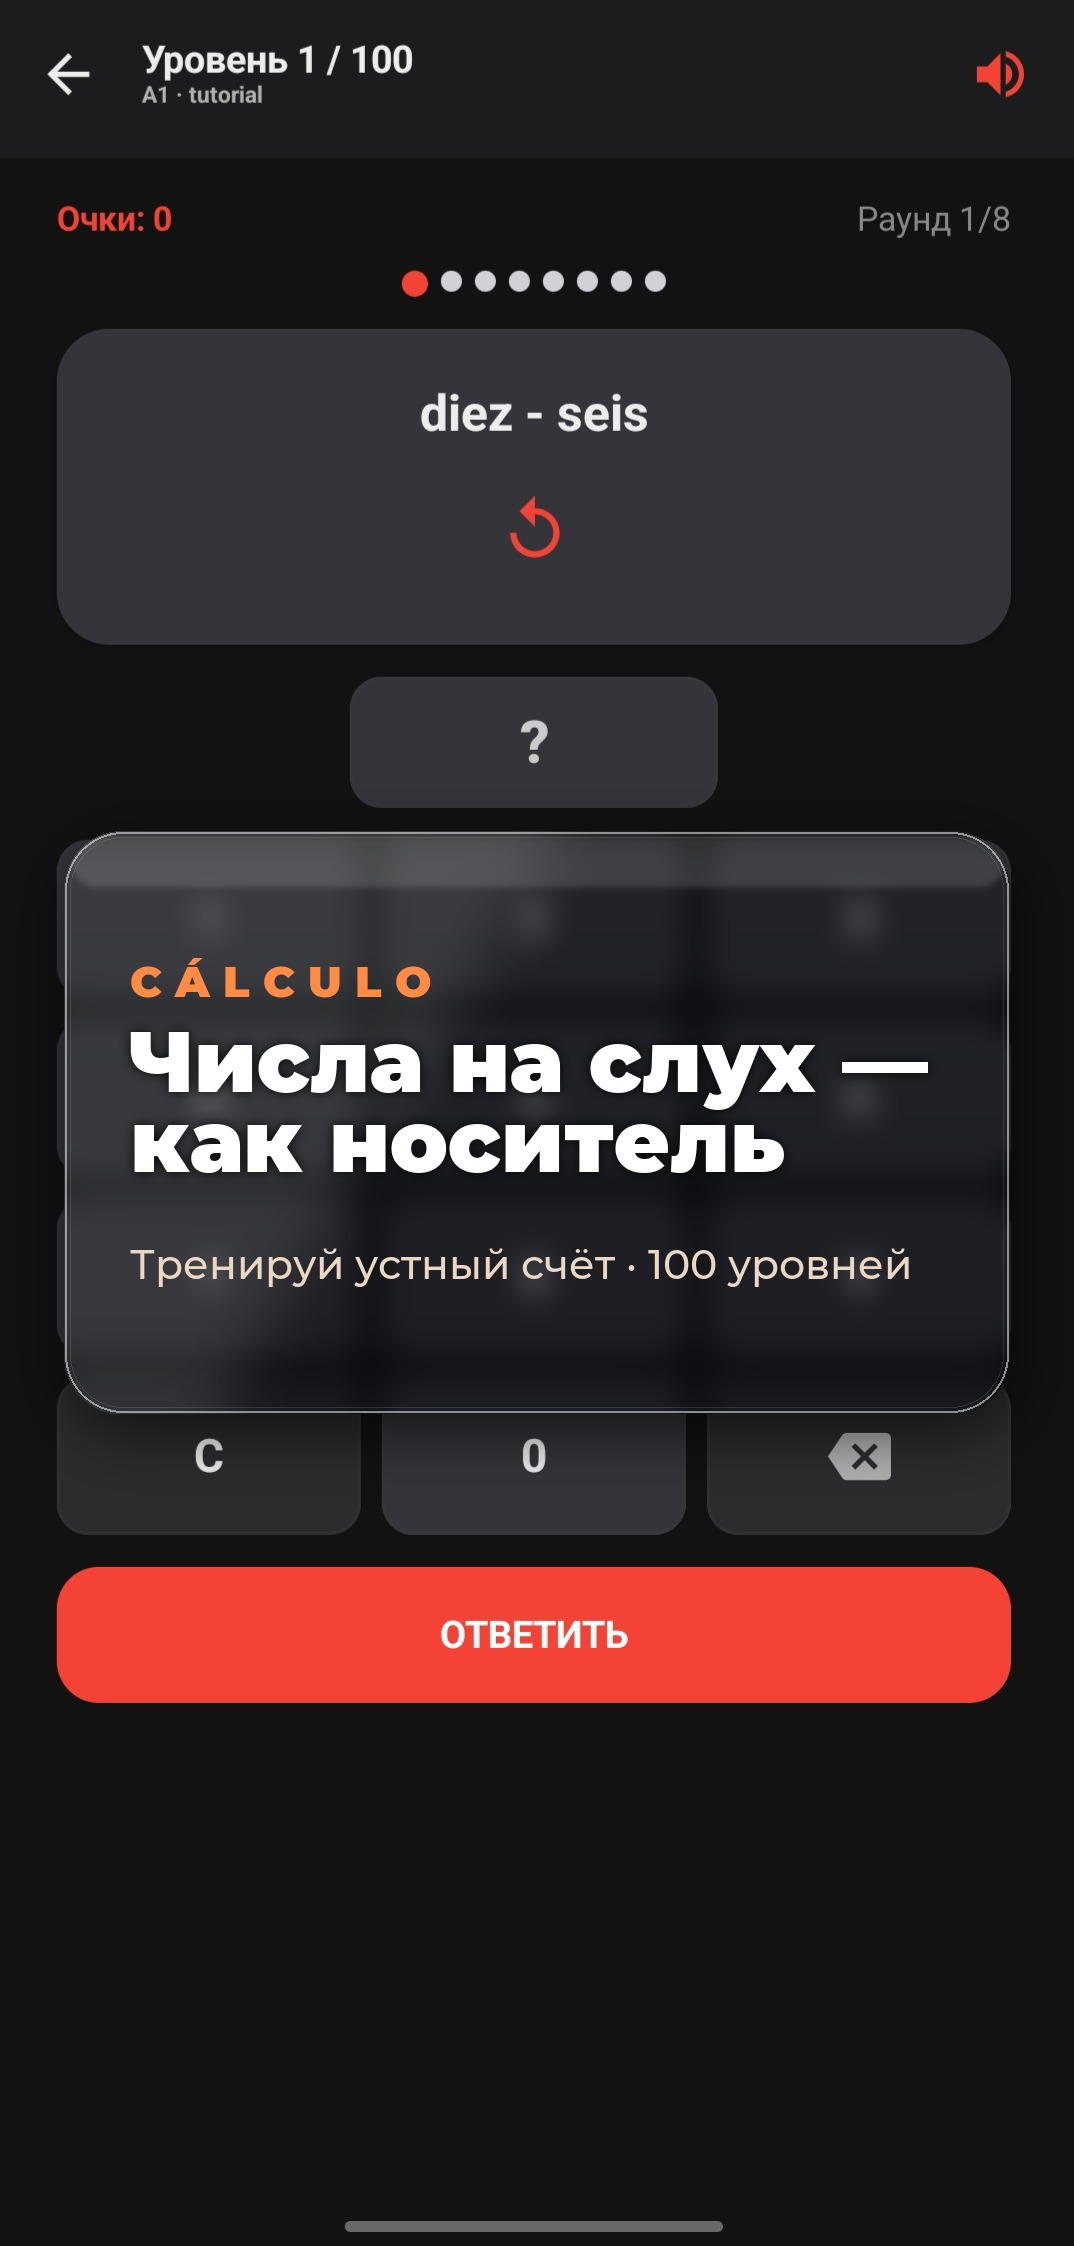
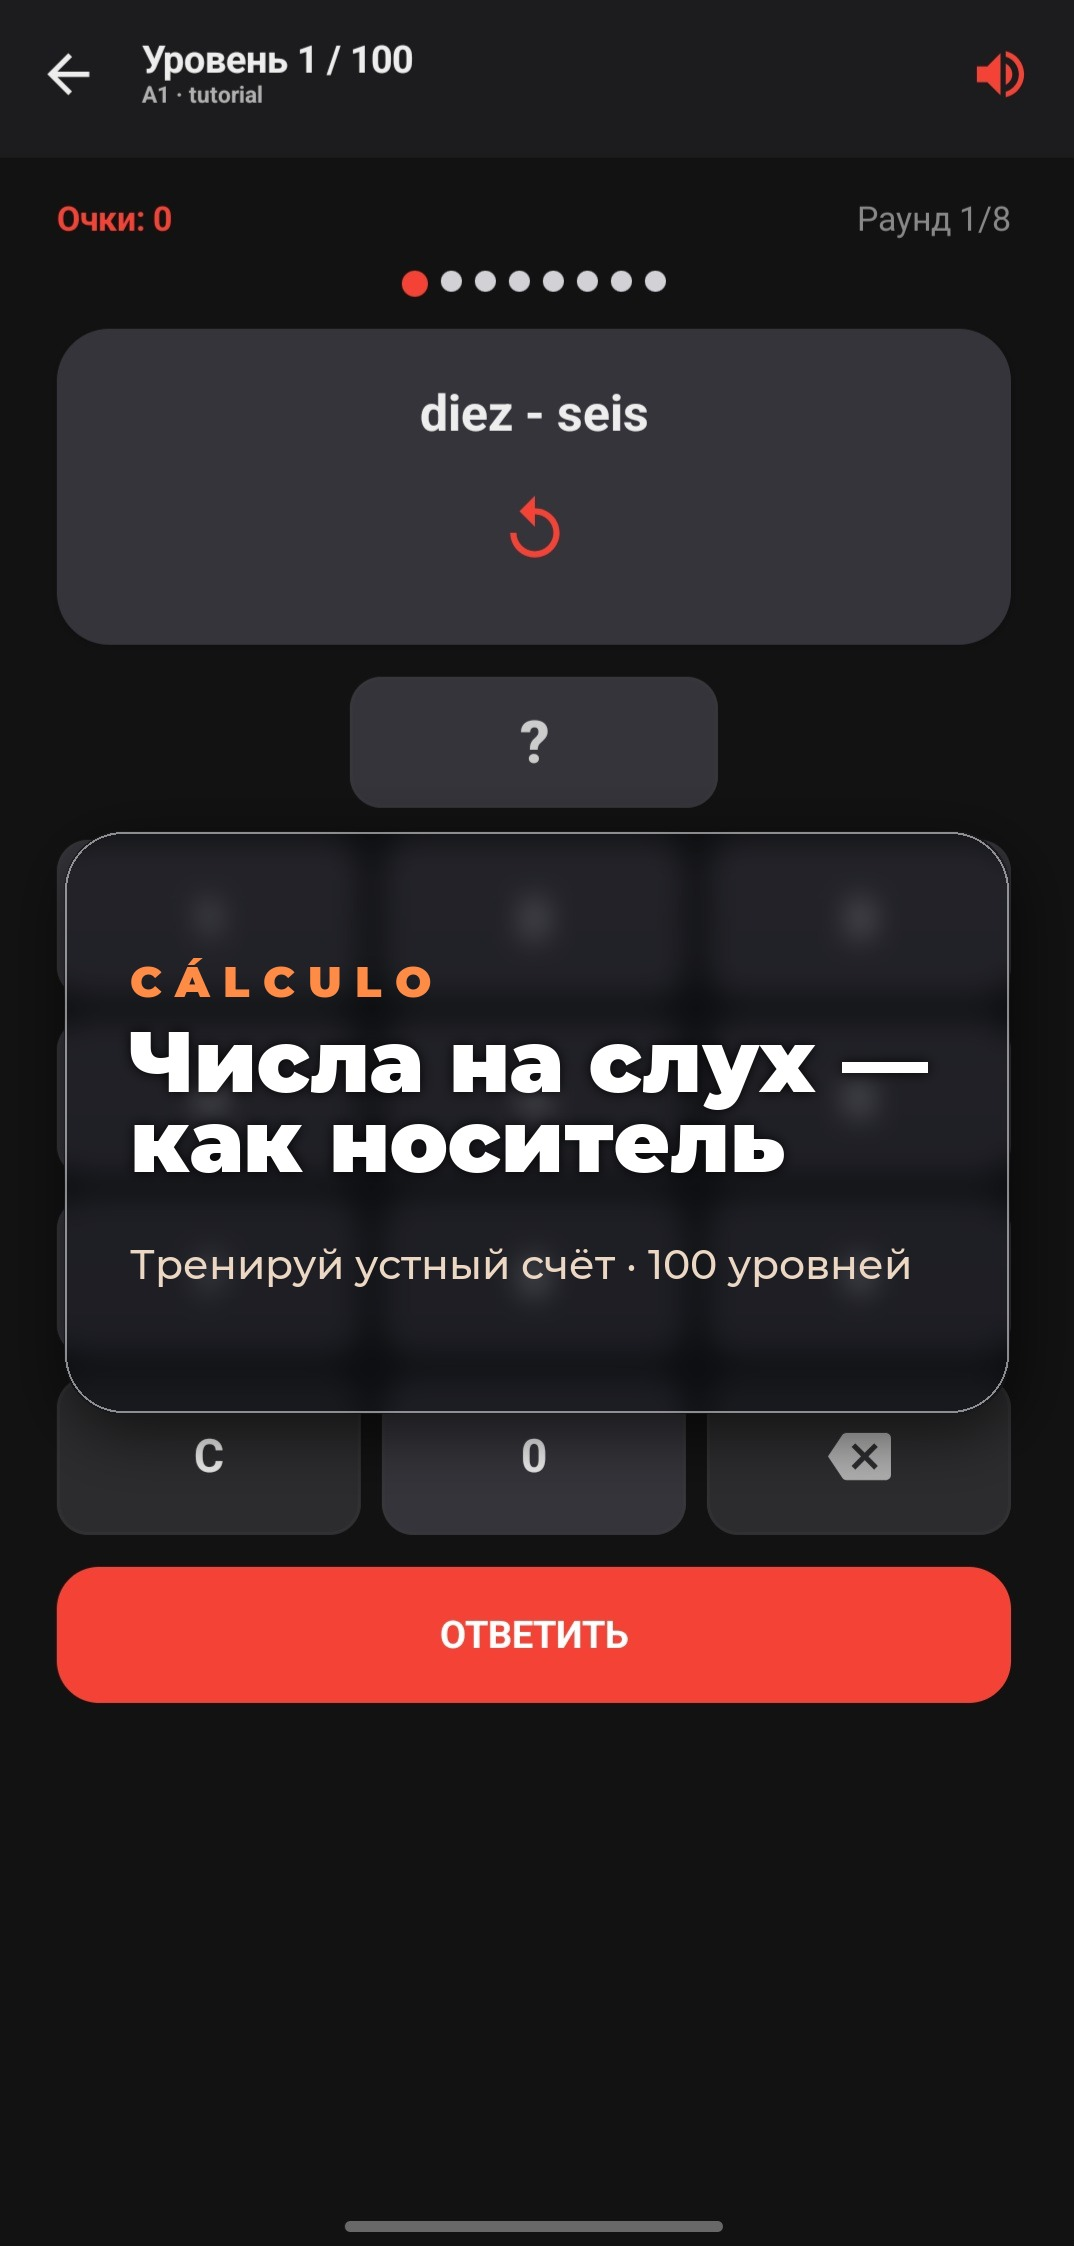
Play assets: remove inner band/sheen, uniform glass
User saw a "muddy stripe" near the top of the panel — it was the
inner top highlight layer + diagonal sheen polygon catching light at
their edges after blur. Dropped both. Now the panel is just:
gradient tint + single hairline border. Clean uniform plate of glass.

Changed region(s): [[0.0615, 0.374, 0.9525, 0.6545]]

diff --git a/docs/play_assets/_make_screenshot_banners.py b/docs/play_assets/_make_screenshot_banners.py
@@ -94,35 +94,11 @@ def add_glass_banner(img: Image.Image, eyebrow: str,
         tdraw.line([(0, y), (banner_w, y)], fill=(8, 10, 16, a))
     panel = Image.alpha_composite(blurred, tint)
 
-    # 3. Diagonal top-left sheen — premium glass sweep
-    sheen = Image.new('RGBA', (banner_w, banner_h), (0, 0, 0, 0))
-    sdr = ImageDraw.Draw(sheen)
-    sdr.polygon([
-        (0, 0),
-        (int(banner_w * 0.55), 0),
-        (int(banner_w * 0.18), banner_h),
-        (0, banner_h),
-    ], fill=(255, 255, 255, 28))
-    sheen = sheen.filter(ImageFilter.GaussianBlur(35))
-    panel = Image.alpha_composite(panel, sheen)
-
-    # 4. Inner top highlight — bright thin band right under the border
-    hl = Image.new('RGBA', (banner_w, banner_h), (0, 0, 0, 0))
-    ImageDraw.Draw(hl).rounded_rectangle(
-        [4, 2, banner_w - 4, int(banner_h * 0.10)],
-        radius=radius // 2, fill=(255, 255, 255, 35))
-    hl = hl.filter(ImageFilter.GaussianBlur(4))
-    panel = Image.alpha_composite(panel, hl)
-
-    # 5. Double border — outer hairline + inner hairline (luxe stacked feel)
+    # 3. Single hairline border — clean, uniform glass (no inner bands)
     border = Image.new('RGBA', (banner_w, banner_h), (0, 0, 0, 0))
-    bdr = ImageDraw.Draw(border)
-    bdr.rounded_rectangle(
+    ImageDraw.Draw(border).rounded_rectangle(
         [1, 1, banner_w - 2, banner_h - 2],
         radius=radius, outline=(255, 255, 255, 130), width=2)
-    bdr.rounded_rectangle(
-        [6, 6, banner_w - 7, banner_h - 7],
-        radius=max(radius - 5, 6), outline=(255, 255, 255, 30), width=1)
     panel = Image.alpha_composite(panel, border)
 
     # Clip panel to rounded mask
